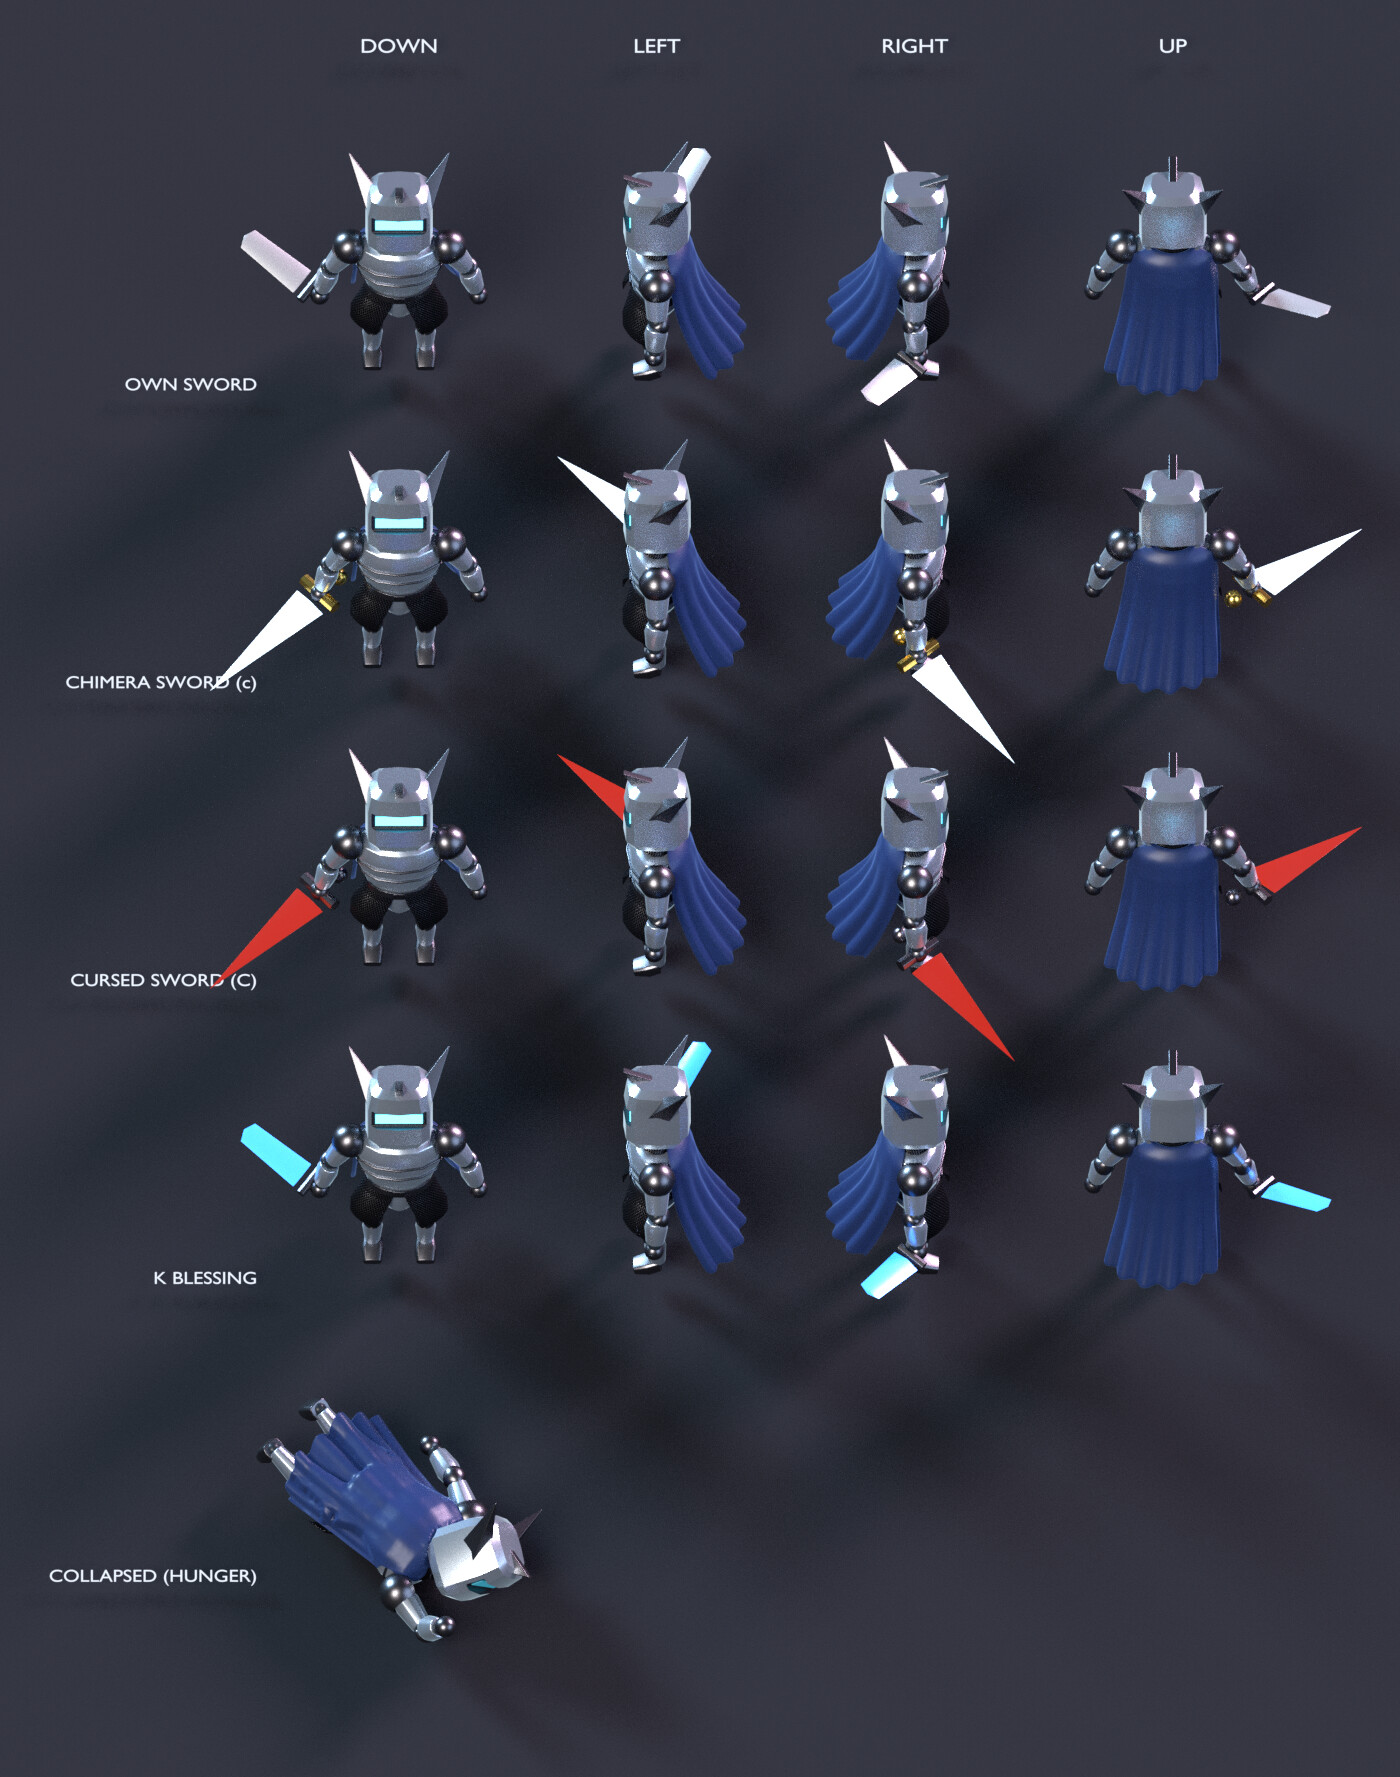
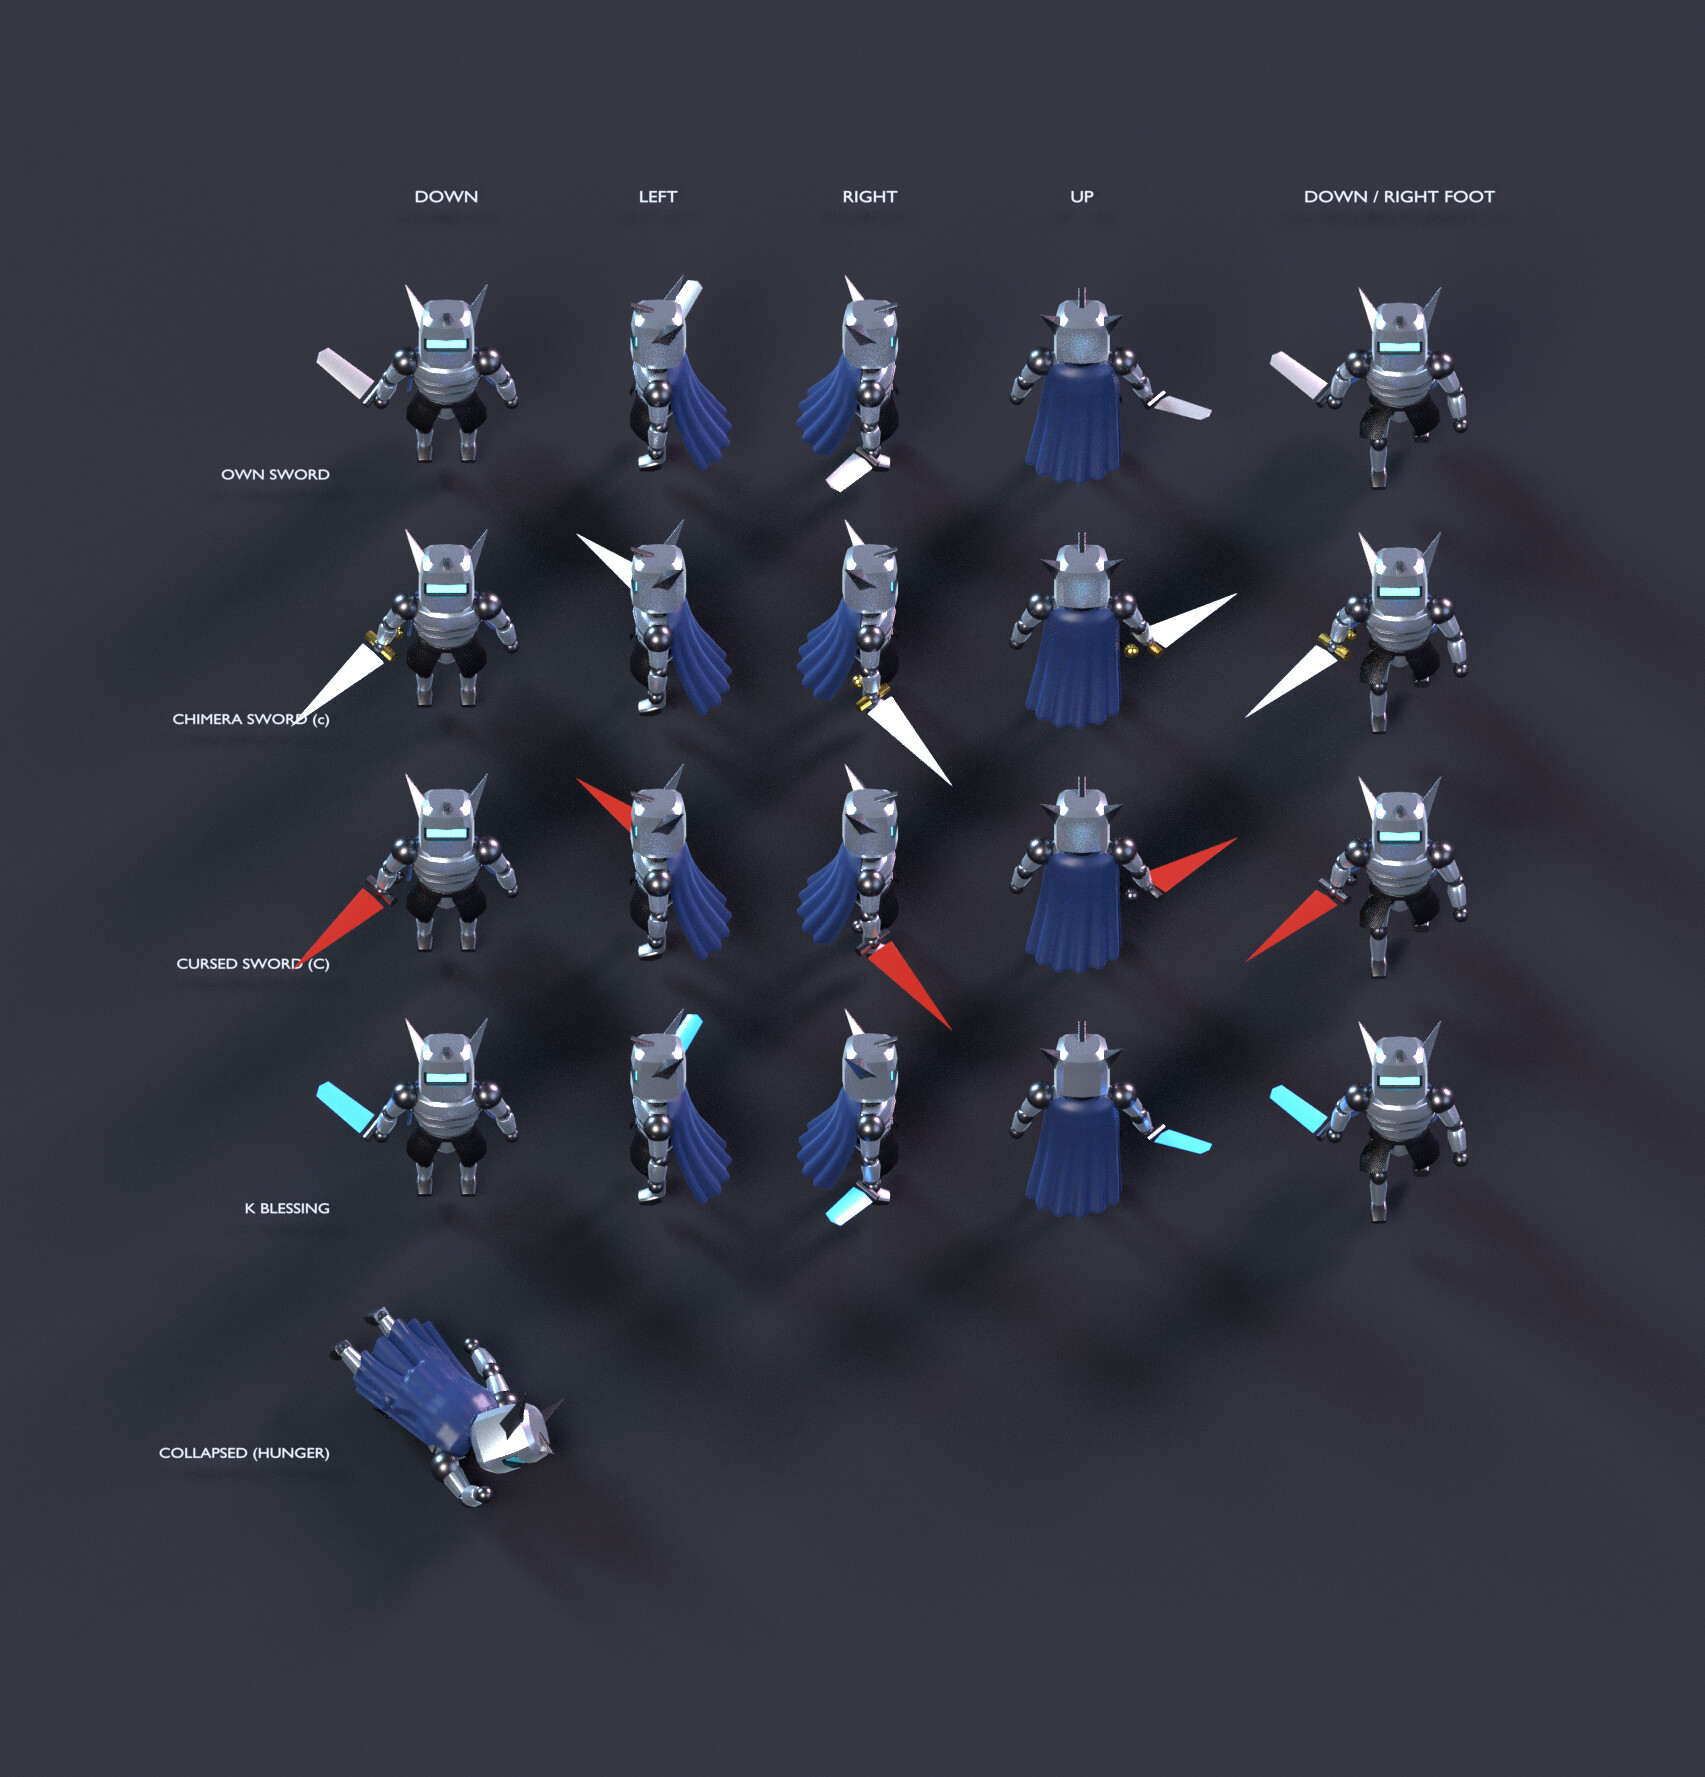
feat: show right-foot step in player facings preview

diff --git a/dev-samples/3d-stage1/preview-player-facings.py b/dev-samples/3d-stage1/preview-player-facings.py
@@ -1,7 +1,8 @@
 """Render the player in every sword state and facing from the saved heroic others' scene.
 
 Rows are the sword states (own sword, chimera's sword, cursed sword, K
-blessing) and columns the facings (down, left, right, up); a last row shows
+blessing) and columns the facings (down, left, right, up) plus a down-facing
+step with the right foot forward. A last row shows
 the player collapsed from hunger, in the first column. Run after
 build-heroic.py:
 blender --background --threads 4 --python dev-samples/3d-stage1/preview-player-facings.py
@@ -10,19 +11,26 @@ Writes heroic/preview-player-facings.jpg; needs ImageMagick's `convert`.
 from pathlib import Path
 import math
 import subprocess
+import sys
 
 import bpy
 from mathutils import Matrix, Vector
 
 ROOT = Path(__file__).resolve().parent
+sys.path.insert(0, str(ROOT / 'rigged-armor'))
+from sprite_pose import HEROIC_PLAYER_SIZE, heroic_player
+
 SWORDS = [('@', 'OWN SWORD'), ('@c', 'CHIMERA SWORD (c)'), ('@C', 'CURSED SWORD (C)'),
           ('@K', 'K BLESSING')]
+WALK_SWORDS = {'@': None, '@c': 'c', '@C': 'C', '@K': 'blessed'}
 FACINGS = [('', 'DOWN'), ('<', 'LEFT'), ('>', 'RIGHT'), ('^', 'UP')]
+COLUMNS = [name for _, name in FACINGS] + ['DOWN / RIGHT FOOT']
 # The collapsed player has one pose, shown under the down column.
 COLLAPSED = ('@_', 'COLLAPSED (HUNGER)')
 ROWS = len(SWORDS) + 1
 SPACING_X = 1.8
 SPACING_Y = 2.4
+WALK_COLUMN_GAP = SPACING_X * 0.5
 
 bpy.ops.wm.open_mainfile(filepath=str(ROOT / 'heroic' / 'characters-others-angle60.blend'))
 scene = bpy.context.scene
@@ -46,7 +54,10 @@ def label(value, pos, size, align='CENTER'):
 
 
 def cell(col, row):
-    return ((col - (len(FACINGS) - 1) / 2) * SPACING_X, -row * SPACING_Y)
+    x = (col - (len(COLUMNS) - 1) / 2) * SPACING_X
+    if col == len(FACINGS):
+        x += WALK_COLUMN_GAP
+    return x, -row * SPACING_Y
 
 
 shown = set()
@@ -67,6 +78,14 @@ def place(char, col, row):
         shown.add(obj)
 
 
+for row, (sword, _) in enumerate(SWORDS):
+    x, y = cell(len(FACINGS), row)
+    pivot = Matrix.Translation((x, y, 0))
+    resize = pivot @ Matrix.Scale(HEROIC_PLAYER_SIZE, 4) @ pivot.inverted()
+    for obj in heroic_player(x, y, WALK_SWORDS[sword], pose='walk-right'):
+        obj.matrix_world = resize @ obj.matrix_world
+        shown.add(obj)
+
 rows = [(sword_name, [sword + suffix for suffix, _ in FACINGS]) for sword, sword_name in SWORDS]
 rows.append((COLLAPSED[1], [COLLAPSED[0]]))
 for row, (row_name, chars) in enumerate(rows):
@@ -74,7 +93,7 @@ for row, (row_name, chars) in enumerate(rows):
         place(char, col, row)
     left, cy = cell(0, row)
     shown.add(label(row_name, (left - SPACING_X * 0.55, cy - 0.3, 0.005), 0.14, 'RIGHT'))
-for col, (_, facing_name) in enumerate(FACINGS):
+for col, facing_name in enumerate(COLUMNS):
     cx, _ = cell(col, 0)
     # Above the back row's helmets, which rise well above their cells on screen.
     shown.add(label(facing_name, (cx, SPACING_Y * 0.55 + 1.1, 0.005), 0.16))
@@ -95,14 +114,15 @@ angle = math.radians(60)
 # Room on the left for the longest row label, on the right for the swords
 # held out by the last column, above for the column labels, and below for
 # the collapsed player's flung arm.
-width = len(FACINGS) * SPACING_X + 5.2
+width = len(COLUMNS) * SPACING_X + WALK_COLUMN_GAP + 5.2
 depth = ROWS * SPACING_Y + 3.4
-target = Vector((-0.6, -(ROWS - 1) * SPACING_Y / 2 + 0.2, 0.5))
+target = Vector((-0.6 + WALK_COLUMN_GAP / 2, -(ROWS - 1) * SPACING_Y / 2 + 0.2, 0.5))
 camera.location = target + Vector((0, -15 * math.cos(angle), 15 * math.sin(angle)))
 camera.rotation_euler = (target - camera.location).to_track_quat('-Z', 'Y').to_euler()
 camera.data.ortho_scale = width
-scene.render.resolution_x = 1400
-scene.render.resolution_y = round(1400 * (depth * math.sin(angle) + 2.4) / width)
+pixels_per_unit = 1400 / (len(FACINGS) * SPACING_X + 5.2)
+scene.render.resolution_x = round(width * pixels_per_unit)
+scene.render.resolution_y = round((depth * math.sin(angle) + 2.4) * pixels_per_unit)
 png = ROOT / 'heroic' / 'preview-player-facings.png'
 scene.render.filepath = str(png)
 bpy.ops.render.render(write_still=True)

diff --git a/dev-samples/3d-stage1/build-heroic.py b/dev-samples/3d-stage1/build-heroic.py
@@ -31,7 +31,7 @@ from heroic_groups import GROUPS, MEMBER_TONES, MEMBER_VARIANTS, blend_path, gro
 # The player is the rigged armor's low head-to-body build (see
 # rigged-armor/README.md); build it first with rigged-armor/build-chibi.py.
 sys.path.insert(0, str(Path(__file__).resolve().parent / 'rigged-armor'))
-from sprite_pose import heroic_player
+from sprite_pose import HEROIC_PLAYER_SIZE, heroic_player
 
 OUT = Path(__file__).resolve().parent / 'heroic'
 GROUP = sys.argv[sys.argv.index('--group') + 1] if '--group' in sys.argv else None
@@ -142,7 +142,7 @@ CENTERS = {char: (x, y) for char, _, x, y in ROW}
 # (MEMBER_HEAD_SIZE). The bison and buffalo were then shrunk to 0.95 of
 # their sizes, as they looked too large, with their eyes enlarged by as
 # much (BOVINE_EYE) so these stay as large on screen.
-SIZES = {**{base + turn: 1.42 for base in ('@', '@c', '@C', '@K')
+SIZES = {**{base + turn: HEROIC_PLAYER_SIZE for base in ('@', '@c', '@C', '@K')
             for turn in ('', '^', '<', '>')}, '@_': 1.6, 'a': 0.9, 'A': 0.9, 'b': 1.09 * 0.95, 'B': 1.13 * 0.95, 'c': 1.2, 'd': 1.25, 'T': 1.66, 'T-toy': 1.66, 'M': 1.66, 'D': 1.44,
          'l': 1.4, 'n': 1.15, 'o': 1.25, 'C': 1.28, 'F': 1.52, "'": 1.7, '"': 1.7,
          'w': 1.52, 'W': 2.2, 'V': 1.4, 'k': 1.4, 'm': 1.35, 'f': 1.25, 'g': 1.3, 'e': 1.71, 'E': 1.98, 'X': 1.35, 'i': 2.1, 'p': 1.3, 'H': 1.8, 'I': 1.6, 'J': 1.6, 'K': 1.6, 'L': 1.7, 'S': 1.6,

diff --git a/dev-samples/3d-stage1/rigged-armor/sprite_pose.py b/dev-samples/3d-stage1/rigged-armor/sprite_pose.py
@@ -127,11 +127,12 @@ def bake(scene, rig, parts, pose, facing, floor, place=Matrix.Identity(4)):
 # ../build-heroic.py) is applied; the chibi figure is scaled to it: 1.05
 # times the previous player model's 1.33, a little larger on screen.
 HEROIC_PLAYER_HEIGHT = 1.33 * 1.05
+HEROIC_PLAYER_SIZE = 1.42
 # The heroic scenes' sword states.
 HEROIC_SWORDS = {None: 'own', 'c': 'chimera', 'C': 'cursed', 'blessed': 'blessed'}
 
 
-def heroic_player(x, y, sword=None, facing='down', collapsed=False):
+def heroic_player(x, y, sword=None, facing='down', collapsed=False, *, pose='rest'):
     """Build the player for ../build-heroic.py: bring in the chibi rig, pose
     it, bake the sprite figure standing on the floor at (x, y) at the heroic
     player's height, and remove the rig again."""
@@ -149,7 +150,7 @@ def heroic_player(x, y, sword=None, facing='down', collapsed=False):
     scale = HEROIC_PLAYER_HEIGHT / (top - floor)
     place = (Matrix.Translation((x, y, 0)) @ Matrix.Scale(scale, 4)
              @ Matrix.Translation((0, 0, -floor)))
-    copies = bake(scene, rig, parts, 'collapsed' if collapsed else 'rest', facing, floor, place)
+    copies = bake(scene, rig, parts, 'collapsed' if collapsed else pose, facing, floor, place)
     scene.frame_set(1)
     for obj in loaded.objects:
         if obj is not None:

diff --git a/dev-samples/3d-stage1/README.md b/dev-samples/3d-stage1/README.md
@@ -218,7 +218,7 @@ blender --background --threads 4 --python dev-samples/3d-stage1/export-sprites.p
 - ループ `l`: ステージ3から登場する仲間。穏やかな時の渦（`loop_spiral()`）。ボルテックス `V` と同じ、下がすぼまり上へ広がる漏斗の形にするが、禍々しさは出さない（煙・小石・ギザギザの縁・暗い色は使わない）。筒のないパーティー用クラッカーから飛び出す紙テープのイメージで、ノミコン・オキュラー・ペガサスと揃えた半透明の緑の樹脂の短いリボン24本（緑と濃い緑を交互）を、漏斗を巻きながら上と外へ広がる4本の渦巻きの腕に並べる（1本の腕に6本。腕は根元から縁までに約0.42回巻き、隣り合うリボンは少し重ねる。リボンは漏斗の外側の面の85〜100%の距離に置く）。配置は乱数ではなく、この規則で決める。リボンは幅のそろった細長い四角形の帯で、端は四角く切る。帯の幅は漏斗の斜面（先端から縁へ向かう母線）の向きに取り、帯の面が漏斗の面に沿って軸を巻くようにする（`tube()` の `up` に点ごとの向きのリストを渡す）。中央の上寄りには、ボルテックスの稲妻を小さく簡単にした（折れ1回の）明るい水色に光る短い稲妻を3本、上から形が分かるようほぼ水平に外へ走らせる。以前は漏斗の高さを当初の0.6倍に低くし、20本のリボンを高さ5層に散らして（下から1・2・4・6・7本）上から見て平たい渦にしていたが、ゲーム画面の小さい表示では、丸い緑の輪と中央の水色の光が、オキュラー `o` の目玉に見えたため、漏斗の高さを当初の高さに戻し、リボンを渦巻きの腕にまとめた（3本の細い腕では芽や鉤爪のように見えたため、4本にしてリボンの幅も広げた）。それより前には、1本のリボンが根元から縁まで巻く形は細い輪に見え、すべてを先端から出す形は根元だけが混み合い、長いリボン10本では貧相に見えたためやめた。画像のファイル名は懐中時計だったころの `loop-watch.png` のまま（以前は浮かぶ懐中時計だった）。
 - プレイヤー: `rigged-armor/` のボーンで組んだ甲冑を約4頭身に縮めたモデル（`rigged-armor/hero-rig-chibi.blend`）を、`rigged-armor/sprite_pose.py` の `heroic_player()` でポーズを付けて置く。向きに回したあと、足元を中心に体を0.1ラジアン、首で頭をさらに0.3ラジアン後ろへ傾け、60度の見下ろしで顔が見えるようにする（体は縦に伸ばさない）。高さは以前のプレイヤー（1.33）の1.05倍にし、全体の大きさ1.42を掛ける。モデルの詳細は `rigged-armor/README.md`。
   - 剣の状態による別の姿（キー `@` `@c` `@C` `@K`）: 自分の短剣（`player.png`）、キメラの剣（`c`、`player-sword.png`）、呪いの剣（`C`、`player-cursed-sword.png`）、収集のエルフ `K` の加護で青く光る自分の短剣（`player-blessed.png`）。キメラの剣は画面上で剣を持っている状態の表示も兼ねるため、キメラが口にくわえている剣の1.3倍の大きさで、低く画面の左下へ向ける。自分の短剣と加護の剣は左上へ立てる。スプライト版は `sprite_funcs.py` の `_player_sprite()` で主人公の状態から画像を選び、キメラの剣を優先する。画像がない場合は通常の `player.png`。
-  - 向きによる別の姿（キー `@^` `@<` `@>` など、`PLAYER_FACINGS`。ファイル名の末尾 `-up` `-left` `-right`）: 剣の状態4種類それぞれに、画面の上・左・右を向いた姿を作る。構えは向きによらず同じ。全体プレビューには並べず（`OFF_GRID`）、`preview-player-facings.py` で剣の状態（行）と向き（列: 下・左・右・上）をすべて並べ、最後の行の左端に飢餓で倒れた姿を置いた `heroic/preview-player-facings.jpg` を出力する（`build-heroic.py` の後に実行する。Blender で描いたPNGを ImageMagick の `convert` でJPEGにし、PNGは消す）。
+  - 向きによる別の姿（キー `@^` `@<` `@>` など、`PLAYER_FACINGS`。ファイル名の末尾 `-up` `-left` `-right`）: 剣の状態4種類それぞれに、画面の上・左・右を向いた姿を作る。構えは向きによらず同じ。全体プレビューには並べず（`OFF_GRID`）、`preview-player-facings.py` で剣の状態（行）と向き（列: 下・左・右・上）を並べ、右端の列に下向きで右足を前に出した姿、最後の行の左端に飢餓で倒れた姿を置いた `heroic/preview-player-facings.jpg` を出力する（`build-heroic.py` の後に実行する。Blender で描いたPNGを ImageMagick の `convert` でJPEGにし、PNGは消す）。
   - 飢餓で倒れた姿（キー `@_`、`player-collapsed.png`）: モデルのフレーム120の姿勢（剣を持たず、うつ伏せで頭を画面の右下へ向け、顔を少しカメラへ向け、右腕を頭の先へ投げ出す。覗き窓を暗くし、マントを体にかける）を傾けずに置く。大きさは立ち姿より少し大きい1.6。全体プレビューには並べず（`OFF_GRID`）、`heroic/preview-player-facings.jpg` の最後の行（`COLLAPSED (HUNGER)`）で確かめる。
 
 作り直しの手順は「キャラクター素材の再生成」を参照。エルフ共通の部分（裾・胴・頭・耳・目、縦の伸ばしと頭の傾け）は `elf_figure()` にまとめ、エルフごとの部分を渡して作る。
